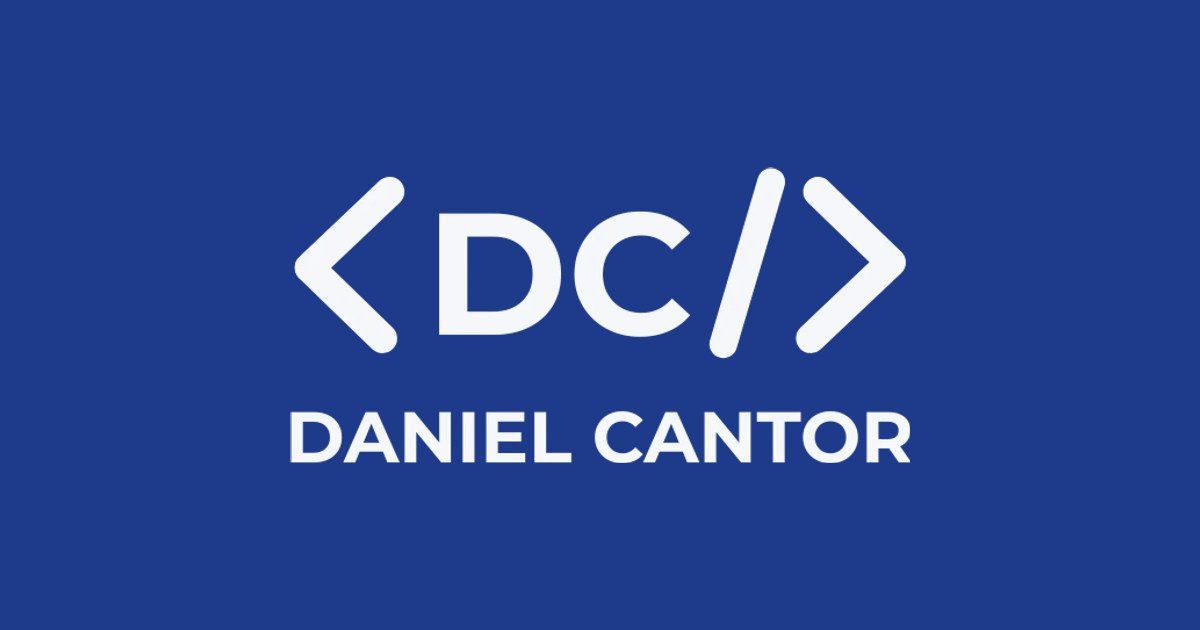
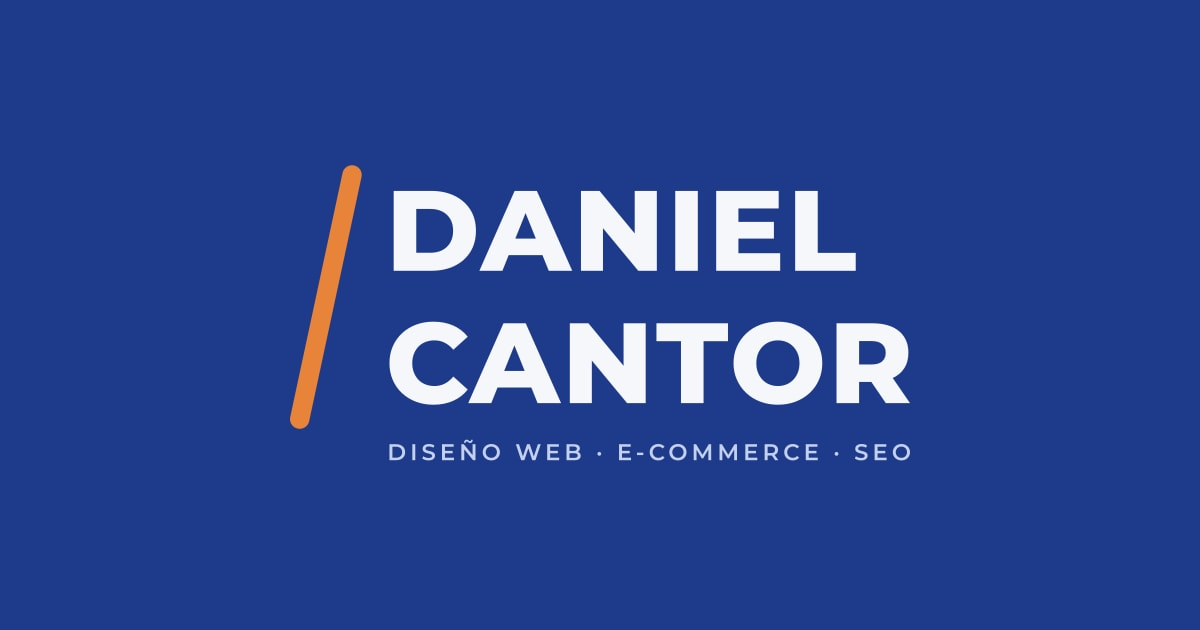
Nueva marca: logotipo e isotipo D/C con barra naranja
Reemplaza el <DC/> por la propuesta "Barra": logotipo DANIEL/CANTOR,
isologo apilado e isotipo D/C con el texto en trazos (Montserrat 800).
Actualiza navbar, menú mobile, footer, favicon, apple-touch-icon y
og-image. Los originales y exportaciones PNG quedan en brand/.

Changed region(s): [[0.2158, 0.2413, 0.7708, 0.754]]

diff --git a/src/components/Footer.jsx b/src/components/Footer.jsx
@@ -1,7 +1,7 @@
 import { site, whatsappUrl } from '../config/site.js'
 import { navLinks } from '../data/navegacion.js'
 import { trackEvent } from '../lib/analytics.js'
-import logo from '../assets/img/logo-apilado-claro.webp'
+import logo from '../assets/img/logo-apilado-claro.svg'
 
 const redes = [
   ['LinkedIn', site.social.linkedin],
@@ -18,7 +18,7 @@ export default function Footer() {
       <div className="mx-auto flex max-w-6xl flex-col gap-8 px-6 pt-12 pb-8 sm:gap-10 sm:pt-16">
         <div className="grid grid-cols-2 gap-x-6 gap-y-8 sm:gap-10 lg:grid-cols-[1.4fr_1fr_1fr_1fr]">
           <div className="col-span-2 flex flex-col gap-3 sm:gap-4 lg:col-span-1">
-            <img src={logo} alt="Daniel Cantor" width="534" height="255" loading="lazy" className="h-12 w-auto self-start sm:h-16" />
+            <img src={logo} alt="Daniel Cantor" width="543" height="231" loading="lazy" className="h-12 w-auto self-start sm:h-16" />
             <p className="max-w-xs text-[15px]">
               Diseño web, asesoría e-commerce y consultoría SEO en {site.city}.
             </p>

diff --git a/src/components/MobileMenu.jsx b/src/components/MobileMenu.jsx
@@ -3,7 +3,7 @@ import useDialog from '../hooks/useDialog.js'
 import { navLinks } from '../data/navegacion.js'
 import WhatsAppButton from './WhatsAppButton.jsx'
 import { CloseIcon } from './icons.jsx'
-import logoClaro from '../assets/img/logo-horizontal-claro.webp'
+import logoClaro from '../assets/img/logo-horizontal-claro.svg'
 
 export default function MobileMenu({ open, onClose }) {
   const panelRef = useDialog(open, onClose)
@@ -26,7 +26,7 @@ export default function MobileMenu({ open, onClose }) {
         className="relative flex h-full w-[86%] max-w-[340px] flex-col overflow-y-auto bg-brand px-6 pt-4 pb-7 dark:border-l dark:border-line dark:bg-card text-on-night motion-safe:animate-[slide-in_280ms_ease-out]"
       >
         <div className="mb-4 flex h-13 items-center justify-between">
-          <img src={logoClaro} alt="Daniel Cantor" width="791" height="104" className="h-6 w-auto" />
+          <img src={logoClaro} alt="Daniel Cantor" width="920" height="96" className="h-4.5 w-auto" />
           <button
             type="button"
             onClick={onClose}

diff --git a/src/components/Navbar.jsx b/src/components/Navbar.jsx
@@ -4,8 +4,8 @@ import { navLinks } from '../data/navegacion.js'
 import MobileMenu from './MobileMenu.jsx'
 import WhatsAppButton from './WhatsAppButton.jsx'
 import { MenuIcon } from './icons.jsx'
-import logo from '../assets/img/logo-horizontal.webp'
-import logoClaro from '../assets/img/logo-horizontal-claro.webp'
+import logo from '../assets/img/logo-horizontal.svg'
+import logoClaro from '../assets/img/logo-horizontal-claro.svg'
 
 export default function Navbar() {
   const [menuOpen, setMenuOpen] = useState(false)
@@ -24,7 +24,7 @@ export default function Navbar() {
         <Link to="/" aria-label="Daniel Cantor, ir al inicio" className="inline-flex shrink-0 items-center">
           <picture>
             <source srcSet={logoClaro} media="(prefers-color-scheme: dark)" />
-            <img src={logo} alt="" width="791" height="104" className="h-7 w-auto" />
+            <img src={logo} alt="" width="920" height="96" className="h-5 w-auto" />
           </picture>
         </Link>
 

diff --git a/index.html b/index.html
@@ -7,6 +7,7 @@
     <meta name="theme-color" content="#F5F7FB" media="(prefers-color-scheme: light)" />
     <meta name="theme-color" content="#0B1226" media="(prefers-color-scheme: dark)" />
     <script>document.documentElement.classList.add('js')</script>
+    <link rel="icon" type="image/svg+xml" href="/favicon.svg" />
     <link rel="icon" type="image/png" href="/favicon.png" />
     <link rel="apple-touch-icon" href="/apple-touch-icon.png" />
     <!--app-head-->
